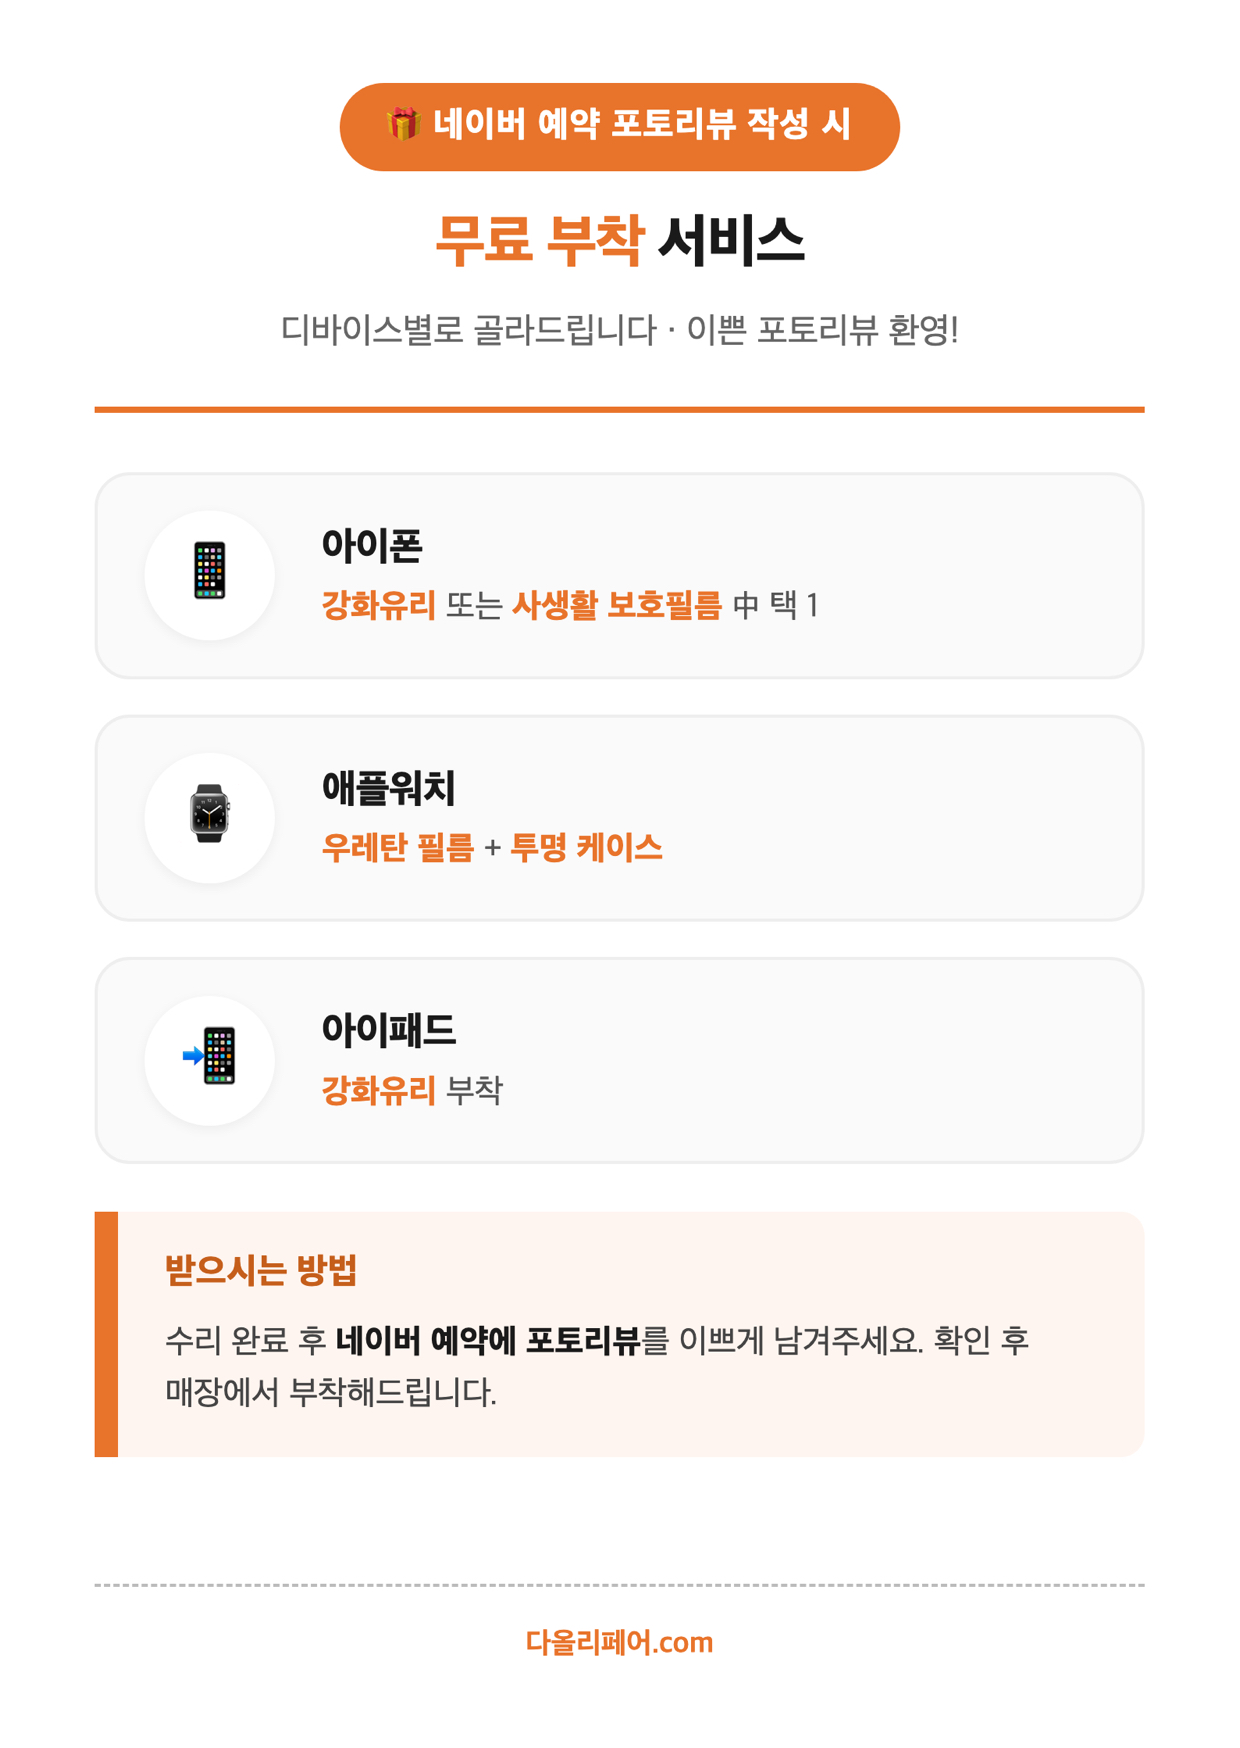
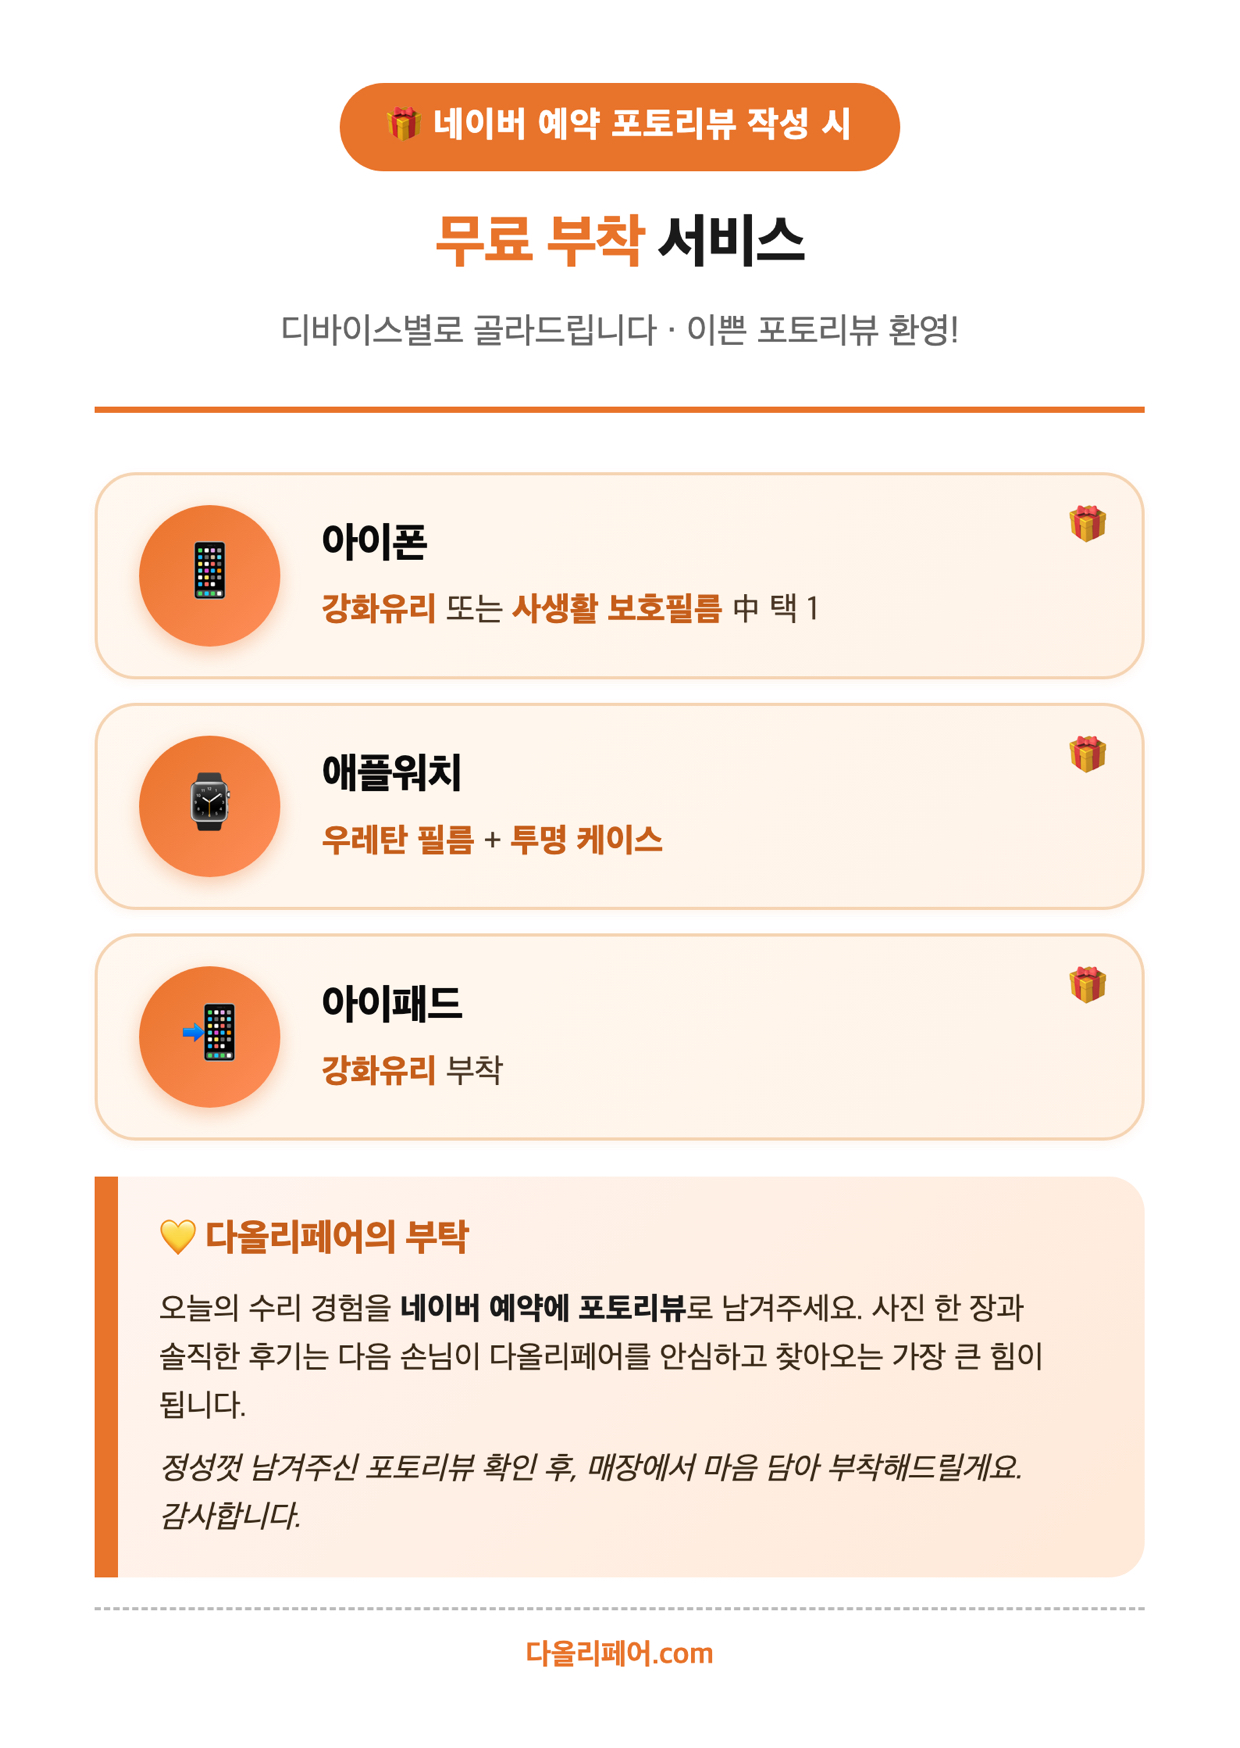
리뷰 안내문 디자인 개선 — 따뜻한 그라데이션 카드 + 주황 그라데이션 아이콘 + 🎁 액센트 + '다올리페어의 부탁' 진심 카피

diff --git a/articles/notice-review-gift-print.html b/articles/notice-review-gift-print.html
@@ -87,73 +87,91 @@
     .a6-gifts {
       display: flex;
       flex-direction: column;
-      gap: 3mm;
-      margin-bottom: 4mm;
+      gap: 2mm;
+      margin-bottom: 3mm;
     }
     .a6-gift {
       display: flex;
       align-items: center;
-      gap: 4mm;
-      padding: 3mm 4mm;
-      background: #fafafa;
-      border: 1px solid #eee;
-      border-radius: 3mm;
+      gap: 3.5mm;
+      padding: 2.5mm 3.5mm;
+      background: linear-gradient(135deg, #fff8f0 0%, #fff3e8 100%);
+      border: 1.2px solid #f5d4b3;
+      border-radius: 3.5mm;
+      position: relative;
+      box-shadow: 0 1px 3px rgba(232,115,42,0.08);
+    }
+    .a6-gift::after {
+      content: '🎁';
+      position: absolute;
+      top: 2mm;
+      right: 3mm;
+      font-size: 9pt;
+      opacity: 0.9;
     }
     .a6-gift-icon {
       flex-shrink: 0;
-      width: 11mm;
-      height: 11mm;
-      background: #fff;
+      width: 12mm;
+      height: 12mm;
+      background: linear-gradient(135deg, #E8732A 0%, #ff8e5a 100%);
       border-radius: 50%;
       display: flex;
       align-items: center;
       justify-content: center;
       font-size: 14pt;
-      box-shadow: 0 1px 4px rgba(0,0,0,0.06);
+      box-shadow: 0 2px 6px rgba(232,115,42,0.35);
     }
-    .a6-gift-body { flex: 1; min-width: 0; }
+    .a6-gift-body { flex: 1; min-width: 0; padding-right: 5mm; }
     .a6-gift-device {
-      font-size: 9.5pt;
+      font-size: 10pt;
       font-weight: 900;
-      color: #1a1a1a;
-      margin-bottom: 0.5mm;
-      letter-spacing: -0.2px;
+      color: #0A0A0A;
+      margin-bottom: 0.8mm;
+      letter-spacing: -0.3px;
     }
     .a6-gift-item {
       font-size: 8pt;
-      color: #555;
-      line-height: 1.45;
+      color: #4a3725;
+      line-height: 1.5;
       word-break: keep-all;
     }
     .a6-gift-item strong {
-      color: #E8732A;
+      color: #C55E1A;
       font-weight: 800;
     }
 
     .a6-howto {
-      background: #fff5f0;
+      background: linear-gradient(135deg, #fff5f0 0%, #ffe9d8 100%);
       border-left: 2mm solid #E8732A;
-      padding: 3mm 4mm;
-      border-radius: 0 2mm 2mm 0;
+      padding: 3mm 3.5mm;
+      border-radius: 0 3mm 3mm 0;
       margin-bottom: auto;
     }
     .a6-howto-title {
-      font-size: 8.5pt;
-      font-weight: 800;
+      font-size: 9pt;
+      font-weight: 900;
       color: #C55E1A;
       margin-bottom: 1.5mm;
+      letter-spacing: -0.2px;
     }
     .a6-howto p {
-      font-size: 8pt;
-      color: #444;
+      font-size: 7.5pt;
+      color: #3a2a18;
       line-height: 1.55;
       word-break: keep-all;
+      margin-bottom: 1.2mm;
     }
+    .a6-howto p:last-child { margin-bottom: 0; }
     .a6-howto strong { color: #1a1a1a; font-weight: 800; }
+    .a6-howto-thanks {
+      font-size: 7.5pt;
+      color: #8a5a2a;
+      font-style: italic;
+    }
 
     .a6-footer {
-      margin-top: 3mm;
-      padding-top: 3mm;
+      margin-top: 2.5mm;
+      padding-top: 2mm;
       border-top: 1px dashed #bbb;
       font-size: 7pt;
       color: #666;
@@ -211,8 +229,9 @@
     </div>
 
     <div class="a6-howto">
-      <div class="a6-howto-title">받으시는 방법</div>
-      <p>수리 완료 후 <strong>네이버 예약에 포토리뷰</strong>를 이쁘게 남겨주세요. 확인 후 매장에서 부착해드립니다.</p>
+      <div class="a6-howto-title">💛 다올리페어의 부탁</div>
+      <p>오늘의 수리 경험을 <strong>네이버 예약에 포토리뷰</strong>로 남겨주세요. 사진 한 장과 솔직한 후기는 다음 손님이 다올리페어를 안심하고 찾아오는 가장 큰 힘이 됩니다.</p>
+      <p class="a6-howto-thanks">정성껏 남겨주신 포토리뷰 확인 후, 매장에서 마음 담아 부착해드릴게요. 감사합니다.</p>
     </div>
 
     <div class="a6-footer">

diff --git a/dist/articles/notice-review-gift-print.html b/dist/articles/notice-review-gift-print.html
@@ -87,73 +87,91 @@
     .a6-gifts {
       display: flex;
       flex-direction: column;
-      gap: 3mm;
-      margin-bottom: 4mm;
+      gap: 2mm;
+      margin-bottom: 3mm;
     }
     .a6-gift {
       display: flex;
       align-items: center;
-      gap: 4mm;
-      padding: 3mm 4mm;
-      background: #fafafa;
-      border: 1px solid #eee;
-      border-radius: 3mm;
+      gap: 3.5mm;
+      padding: 2.5mm 3.5mm;
+      background: linear-gradient(135deg, #fff8f0 0%, #fff3e8 100%);
+      border: 1.2px solid #f5d4b3;
+      border-radius: 3.5mm;
+      position: relative;
+      box-shadow: 0 1px 3px rgba(232,115,42,0.08);
+    }
+    .a6-gift::after {
+      content: '🎁';
+      position: absolute;
+      top: 2mm;
+      right: 3mm;
+      font-size: 9pt;
+      opacity: 0.9;
     }
     .a6-gift-icon {
       flex-shrink: 0;
-      width: 11mm;
-      height: 11mm;
-      background: #fff;
+      width: 12mm;
+      height: 12mm;
+      background: linear-gradient(135deg, #E8732A 0%, #ff8e5a 100%);
       border-radius: 50%;
       display: flex;
       align-items: center;
       justify-content: center;
       font-size: 14pt;
-      box-shadow: 0 1px 4px rgba(0,0,0,0.06);
+      box-shadow: 0 2px 6px rgba(232,115,42,0.35);
     }
-    .a6-gift-body { flex: 1; min-width: 0; }
+    .a6-gift-body { flex: 1; min-width: 0; padding-right: 5mm; }
     .a6-gift-device {
-      font-size: 9.5pt;
+      font-size: 10pt;
       font-weight: 900;
-      color: #1a1a1a;
-      margin-bottom: 0.5mm;
-      letter-spacing: -0.2px;
+      color: #0A0A0A;
+      margin-bottom: 0.8mm;
+      letter-spacing: -0.3px;
     }
     .a6-gift-item {
       font-size: 8pt;
-      color: #555;
-      line-height: 1.45;
+      color: #4a3725;
+      line-height: 1.5;
       word-break: keep-all;
     }
     .a6-gift-item strong {
-      color: #E8732A;
+      color: #C55E1A;
       font-weight: 800;
     }
 
     .a6-howto {
-      background: #fff5f0;
+      background: linear-gradient(135deg, #fff5f0 0%, #ffe9d8 100%);
       border-left: 2mm solid #E8732A;
-      padding: 3mm 4mm;
-      border-radius: 0 2mm 2mm 0;
+      padding: 3mm 3.5mm;
+      border-radius: 0 3mm 3mm 0;
       margin-bottom: auto;
     }
     .a6-howto-title {
-      font-size: 8.5pt;
-      font-weight: 800;
+      font-size: 9pt;
+      font-weight: 900;
       color: #C55E1A;
       margin-bottom: 1.5mm;
+      letter-spacing: -0.2px;
     }
     .a6-howto p {
-      font-size: 8pt;
-      color: #444;
+      font-size: 7.5pt;
+      color: #3a2a18;
       line-height: 1.55;
       word-break: keep-all;
+      margin-bottom: 1.2mm;
     }
+    .a6-howto p:last-child { margin-bottom: 0; }
     .a6-howto strong { color: #1a1a1a; font-weight: 800; }
+    .a6-howto-thanks {
+      font-size: 7.5pt;
+      color: #8a5a2a;
+      font-style: italic;
+    }
 
     .a6-footer {
-      margin-top: 3mm;
-      padding-top: 3mm;
+      margin-top: 2.5mm;
+      padding-top: 2mm;
       border-top: 1px dashed #bbb;
       font-size: 7pt;
       color: #666;
@@ -211,8 +229,9 @@
     </div>
 
     <div class="a6-howto">
-      <div class="a6-howto-title">받으시는 방법</div>
-      <p>수리 완료 후 <strong>네이버 예약에 포토리뷰</strong>를 이쁘게 남겨주세요. 확인 후 매장에서 부착해드립니다.</p>
+      <div class="a6-howto-title">💛 다올리페어의 부탁</div>
+      <p>오늘의 수리 경험을 <strong>네이버 예약에 포토리뷰</strong>로 남겨주세요. 사진 한 장과 솔직한 후기는 다음 손님이 다올리페어를 안심하고 찾아오는 가장 큰 힘이 됩니다.</p>
+      <p class="a6-howto-thanks">정성껏 남겨주신 포토리뷰 확인 후, 매장에서 마음 담아 부착해드릴게요. 감사합니다.</p>
     </div>
 
     <div class="a6-footer">
